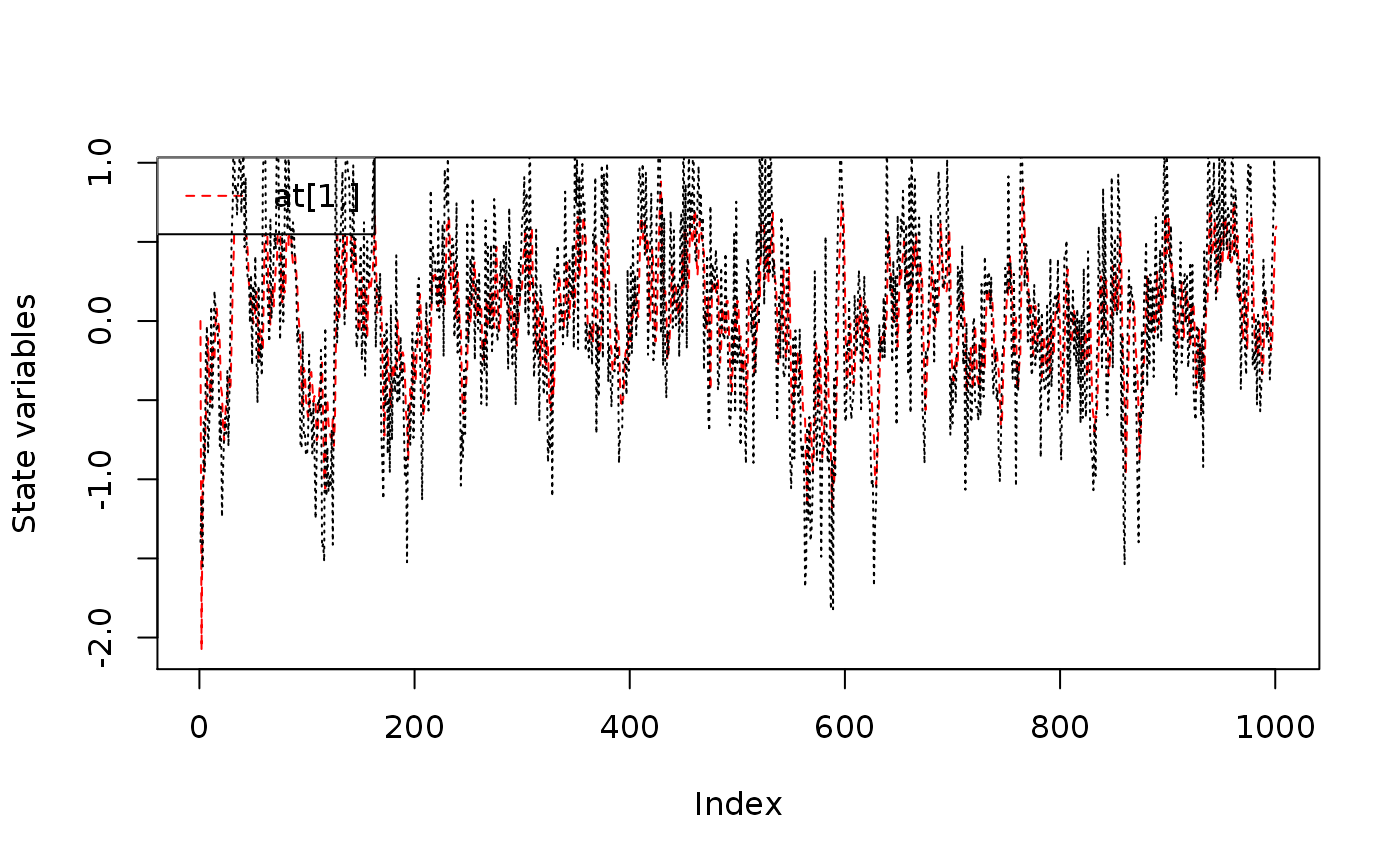
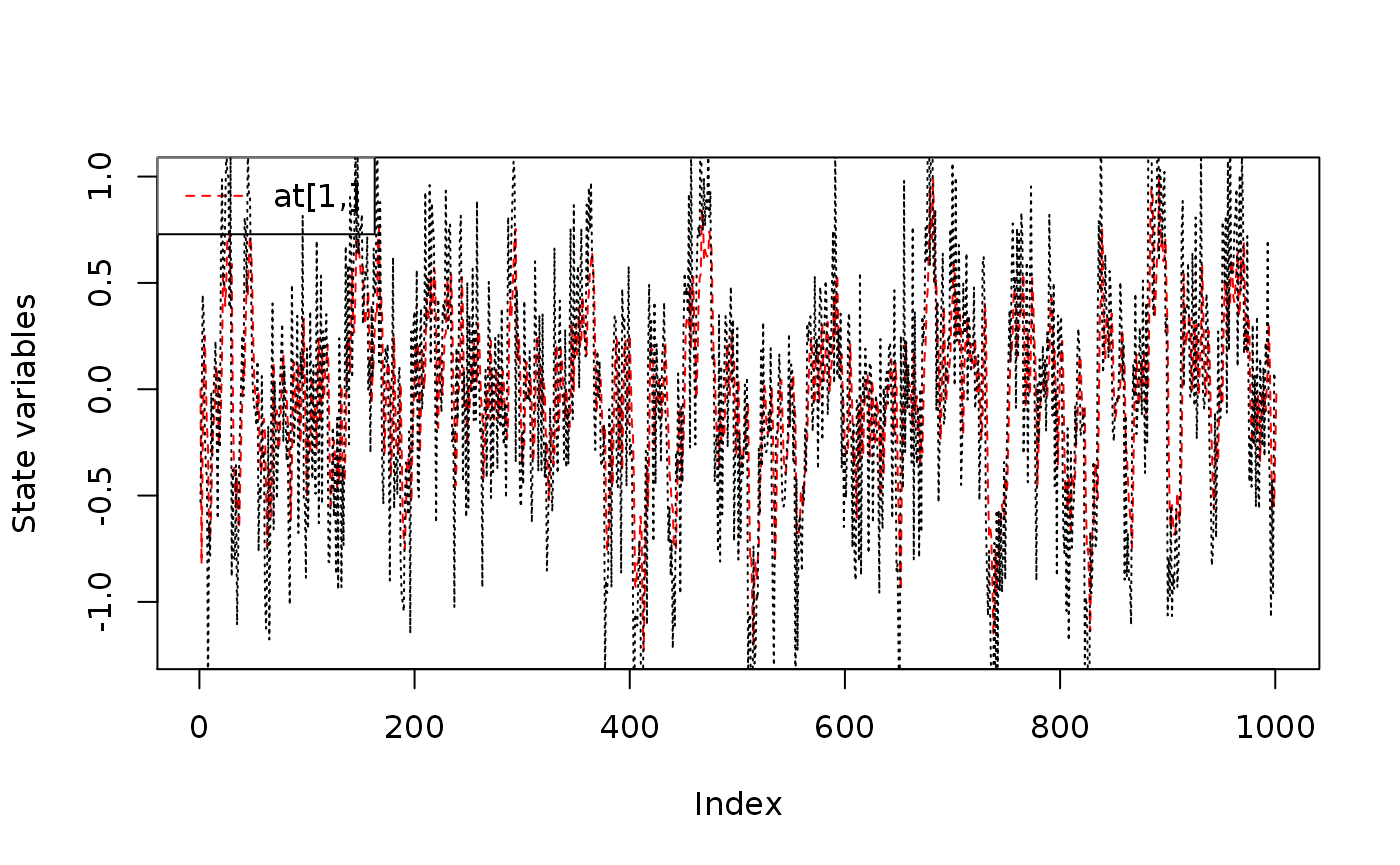
Deploy waternumbers/FKF to github.com/waternumbers/FKF.git:gh-pages

diff --git a/articles/FKF.html b/articles/FKF.html
@@ -135,14 +135,14 @@
 <span class="va">fit</span>
 <span class="co">#&gt; $par</span>
 <span class="co">#&gt;        ar1        ar2        ma1      sigma </span>
-<span class="co">#&gt;  0.4898906  0.2633278 -0.1072205  0.4484135 </span>
+<span class="co">#&gt;  0.5522712  0.2298052 -0.1704931  0.4439475 </span>
 <span class="co">#&gt; </span>
 <span class="co">#&gt; $value</span>
-<span class="co">#&gt; [1] 624.0361</span>
+<span class="co">#&gt; [1] 614.1045</span>
 <span class="co">#&gt; </span>
 <span class="co">#&gt; $counts</span>
 <span class="co">#&gt; function gradient </span>
-<span class="co">#&gt;      227       NA </span>
+<span class="co">#&gt;      169       NA </span>
 <span class="co">#&gt; </span>
 <span class="co">#&gt; $convergence</span>
 <span class="co">#&gt; [1] 0</span>
@@ -151,18 +151,18 @@
 <span class="co">#&gt; NULL</span>
 <span class="co">#&gt; </span>
 <span class="co">#&gt; $hessian</span>
-<span class="co">#&gt;                ar1         ar2          ma1        sigma</span>
-<span class="co">#&gt; ar1   1961.3066049 1314.699750 1050.2723027    0.5682365</span>
-<span class="co">#&gt; ar2   1314.6997499 1955.439718  120.6247034   -0.1027130</span>
-<span class="co">#&gt; ma1   1050.2723027  120.624703  986.2327657    0.6341356</span>
-<span class="co">#&gt; sigma    0.5682365   -0.102713    0.6341356 9934.8841742</span></code></pre></div>
+<span class="co">#&gt;                ar1          ar2          ma1         sigma</span>
+<span class="co">#&gt; ar1   2172.3165918 1559.7716843 1110.6307009    -0.5464054</span>
+<span class="co">#&gt; ar2   1559.7716843 2172.2613773  205.0594164    -0.1603965</span>
+<span class="co">#&gt; ma1   1110.6307009  205.0594164 1018.9974751    -0.5657022</span>
+<span class="co">#&gt; sigma   -0.5464054   -0.1603965   -0.5657022 10137.8502179</span></code></pre></div>
 <div class="sourceCode" id="cb6"><pre class="downlit sourceCode r">
 <code class="sourceCode R"><span class="co">## Confidence intervals</span>
 <span class="fu"><a href="https://rdrr.io/r/base/cbind.html">rbind</a></span><span class="op">(</span><span class="va">fit</span><span class="op">$</span><span class="va">par</span> <span class="op">-</span> <span class="fu"><a href="https://rdrr.io/r/stats/Normal.html">qnorm</a></span><span class="op">(</span><span class="fl">0.975</span><span class="op">)</span> <span class="op">*</span> <span class="fu"><a href="https://rdrr.io/r/base/MathFun.html">sqrt</a></span><span class="op">(</span><span class="fu"><a href="https://rdrr.io/r/base/diag.html">diag</a></span><span class="op">(</span><span class="fu"><a href="https://rdrr.io/r/base/solve.html">solve</a></span><span class="op">(</span><span class="va">fit</span><span class="op">$</span><span class="va">hessian</span><span class="op">)</span><span class="op">)</span><span class="op">)</span>,
       <span class="va">fit</span><span class="op">$</span><span class="va">par</span> <span class="op">+</span> <span class="fu"><a href="https://rdrr.io/r/stats/Normal.html">qnorm</a></span><span class="op">(</span><span class="fl">0.975</span><span class="op">)</span> <span class="op">*</span> <span class="fu"><a href="https://rdrr.io/r/base/MathFun.html">sqrt</a></span><span class="op">(</span><span class="fu"><a href="https://rdrr.io/r/base/diag.html">diag</a></span><span class="op">(</span><span class="fu"><a href="https://rdrr.io/r/base/solve.html">solve</a></span><span class="op">(</span><span class="va">fit</span><span class="op">$</span><span class="va">hessian</span><span class="op">)</span><span class="op">)</span><span class="op">)</span><span class="op">)</span>
 <span class="co">#&gt;            ar1       ar2         ma1     sigma</span>
-<span class="co">#&gt; [1,] 0.3092675 0.1442948 -0.29672327 0.4287497</span>
-<span class="co">#&gt; [2,] 0.6705136 0.3823607  0.08228225 0.4680772</span>
+<span class="co">#&gt; [1,] 0.3761784 0.1115023 -0.35116777 0.4244816</span>
+<span class="co">#&gt; [2,] 0.7283640 0.3481082  0.01018157 0.4634134</span>
 
 <span class="co">## Filter the series with estimated parameter values</span>
 <span class="va">sp</span> <span class="op">&lt;-</span> <span class="fu">arma21ss</span><span class="op">(</span><span class="va">fit</span><span class="op">$</span><span class="va">par</span><span class="op">[</span><span class="st">"ar1"</span><span class="op">]</span>, <span class="va">fit</span><span class="op">$</span><span class="va">par</span><span class="op">[</span><span class="st">"ar2"</span><span class="op">]</span>, <span class="va">fit</span><span class="op">$</span><span class="va">par</span><span class="op">[</span><span class="st">"ma1"</span><span class="op">]</span>, <span class="va">fit</span><span class="op">$</span><span class="va">par</span><span class="op">[</span><span class="st">"sigma"</span><span class="op">]</span><span class="op">)</span>
